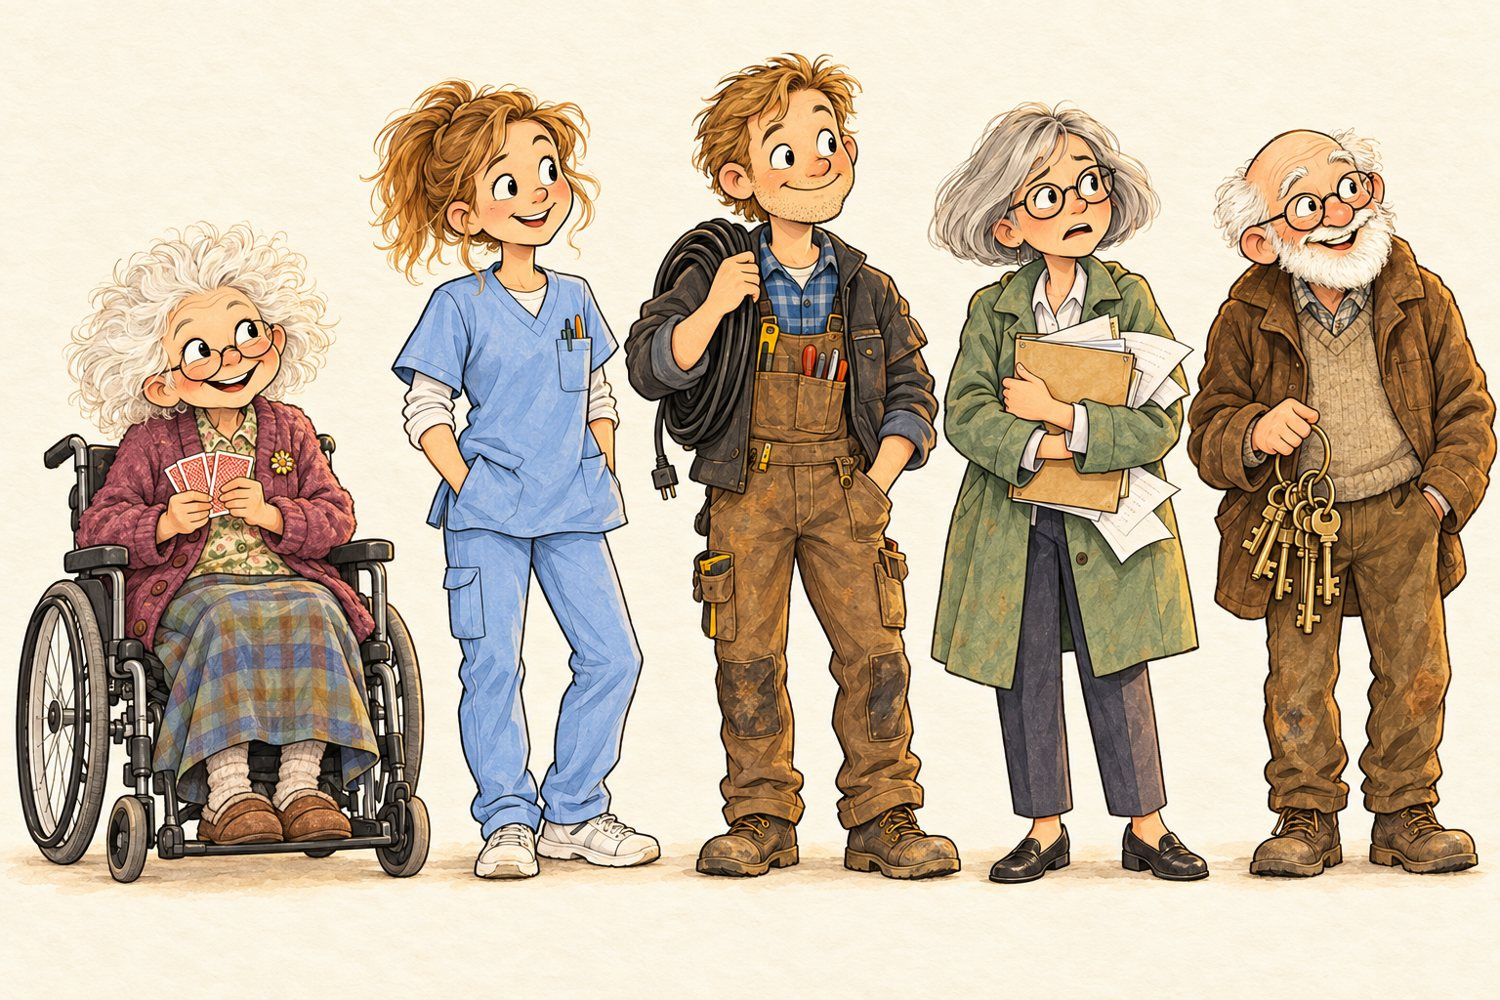
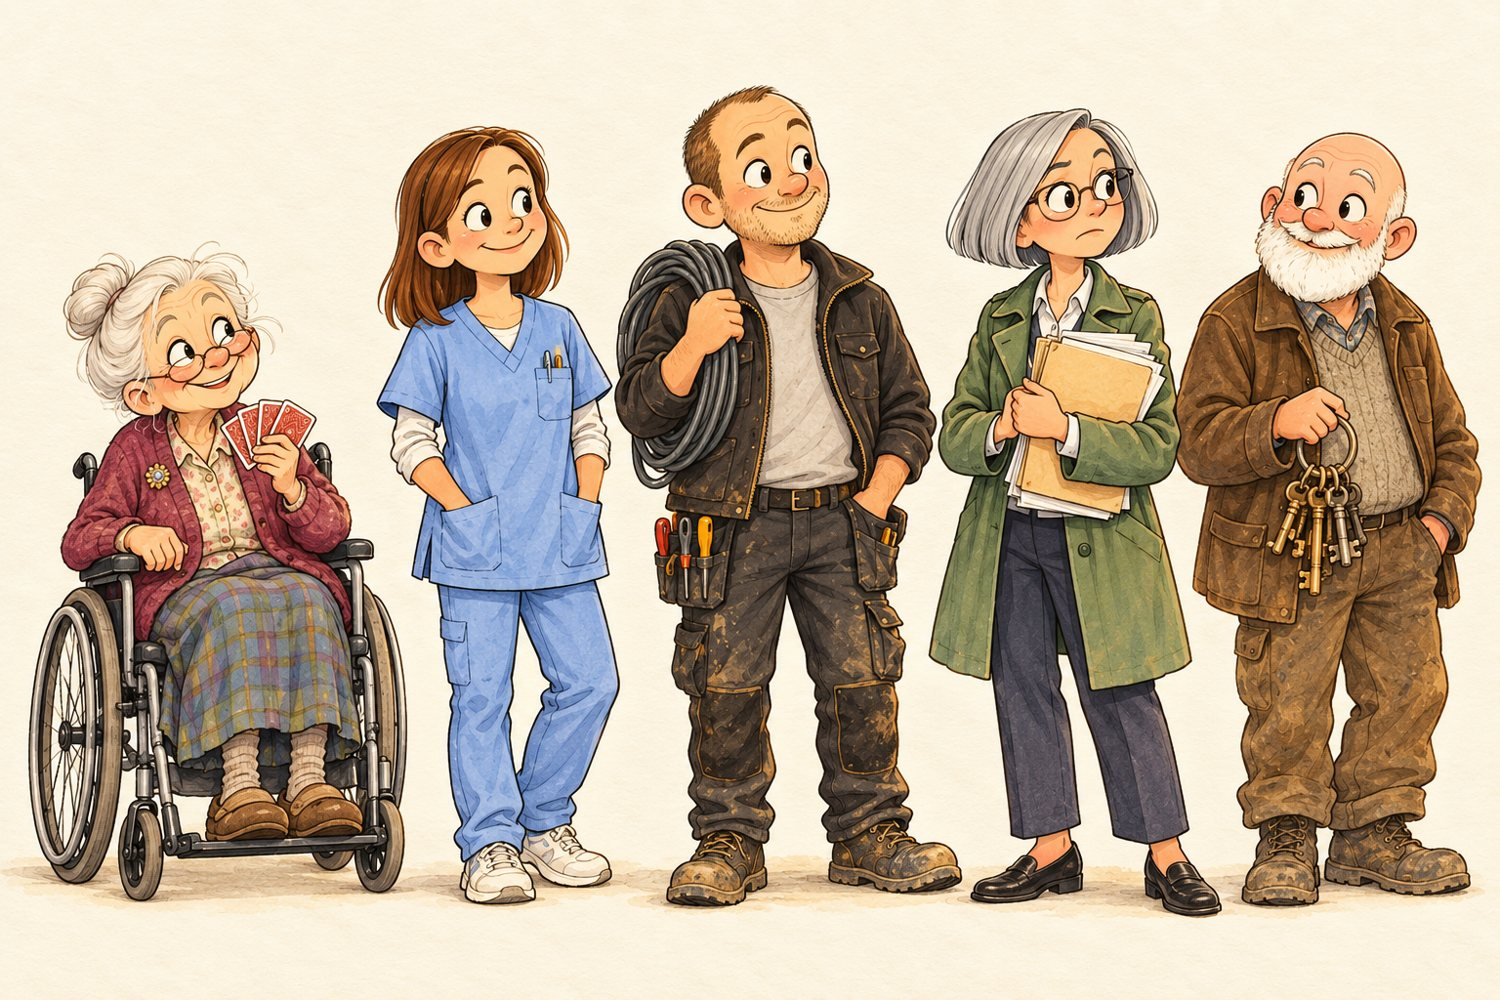
Olika frisyrer för Ben-, Maya- och Alex-karaktärerna

diff --git a/characters/index.html b/characters/index.html
@@ -29,9 +29,9 @@
 <section><div class="wrap">
 <div class="eyebrow">Internt, för granskning</div>
 <h1>Alla karaktärer</h1>
-<div class="note"><b>Så granskar du:</b> tryck på en bild för full storlek. Skriv vad du vill ändra per karaktär (namn + ändring), så gör jag om just dem. Alla karaktärer i Penny-världen, även Penny, är nya (v2) i samma stil som omslagen. Fäll ut "Visa gamla designen" för att se skillnaden. Ben, Maya och Alex är nu också v2 i samma sagobokstil, med de gamla arken utfällbara under varje serie.</div>
+<div class="note"><b>Så granskar du:</b> tryck på en bild för full storlek. Skriv vad du vill ändra per karaktär (namn + ändring), så gör jag om just dem. Alla karaktärer i Penny-världen, även Penny, är nya (v2) i samma stil som omslagen. Fäll ut "Visa gamla designen" för att se skillnaden. Ben, Maya och Alex är nu också v2 i samma sagobokstil, med de gamla arken utfällbara under varje serie. Uppdaterat: alla har nu egna frisyrer.</div>
 <h2>Penny and the Golden Notebook (7–10) och Penny and the Seed (3–6)</h2>
 <div class="grid-ch">
 <article class="ch"><a href="img/penny.jpg?v=2" target="_blank"><img src="img/penny.jpg?v=2" alt="Penny Lind, 9" loading="lazy"></a><div class="meta"><span class="tag">Ny v2</span><h3>Penny Lind, 9</h3><p>Huvudpersonen. Samma design som förut (blond page, orange hårband, orange t-shirt, ryggsäck, röda skor) men nu i omslagets akvarellstil, med den gula regnjackan från omslaget.</p><details><summary>Visa gamla designen</summary><img src="img/penny-old.jpg" alt="Gamla Penny" loading="lazy"></details><details><summary>Visa gamla uttrycksarket</summary><img src="img/penny-expr.jpg" alt="Pennys gamla uttryck" loading="lazy"></details></div></article><article class="ch"><a href="img/tommy.jpg" target="_blank"><img src="img/tommy.jpg" alt="Tommy Lind, 6" loading="lazy"></a><div class="meta"><span class="tag">Ny v2</span><h3>Tommy Lind, 6</h3><p>Lillebror. Rött rufsigt hår, blå keps, fräknar, glugg. Frågar "varför?" om allt. Omgjord en gång: v1 fick glasögon.</p><details><summary>Visa gamla designen</summary><img src="img/tommy-old.jpg" alt="Gamla Tommy Lind, 6" loading="lazy"></details></div></article><article class="ch"><a href="img/emma.jpg" target="_blank"><img src="img/emma.jpg" alt="Emma Holm, 9" loading="lazy"></a><div class="meta"><span class="tag">Ny v2</span><h3>Emma Holm, 9</h3><p>Bästa vännen. Långt kopparrött hår, runda glasögon, gul stickad tröja, anteckningsblock. Den noggranna som räknar.</p><details><summary>Visa gamla designen</summary><img src="img/emma-old.jpg" alt="Gamla Emma Holm, 9" loading="lazy"></details></div></article><article class="ch"><a href="img/grandma.jpg" target="_blank"><img src="img/grandma.jpg" alt="Mormor Rose" loading="lazy"></a><div class="meta"><span class="tag">Ny v2</span><h3>Mormor Rose</h3><p>Silvergrå knut, runda glasögon, förkläde med mjöl. Ger aldrig svar, bara frågor: "Och vad tror du själv?"</p><details><summary>Visa gamla designen</summary><img src="img/grandma-old.jpg" alt="Gamla Mormor Rose" loading="lazy"></details></div></article><article class="ch"><a href="img/dad.jpg" target="_blank"><img src="img/dad.jpg" alt="Pappa Johan" loading="lazy"></a><div class="meta"><span class="tag">Ny v2</span><h3>Pappa Johan</h3><p>Snickare med egen firma. Stor, lugn, skägg, sågspån i håret, verktygsbälte. Omgjord: v1 hade glasögon.</p><details><summary>Visa gamla designen</summary><img src="img/dad-old.jpg" alt="Gamla Pappa Johan" loading="lazy"></details></div></article><article class="ch"><a href="img/mom.jpg" target="_blank"><img src="img/mom.jpg" alt="Mamma Sara" loading="lazy"></a><div class="meta"><span class="tag">Ny v2</span><h3>Mamma Sara</h3><p>Sjuksköterska som jobbar natt. Blond hästsvans, varm men trött, skrattar högt.</p><details><summary>Visa gamla designen</summary><img src="img/mom-old.jpg" alt="Gamla Mamma Sara" loading="lazy"></details></div></article><article class="ch"><a href="img/marcus.jpg" target="_blank"><img src="img/marcus.jpg" alt="Marcus Berg, 10" loading="lazy"></a><div class="meta"><span class="tag">Ny v2</span><h3>Marcus Berg, 10</h3><p>Rivalen. Ny jacka, ny cykel, självsäker. Blir långsamt en vän. <b>OBS: skorna har en Nike-logga som måste bort.</b></p><details><summary>Visa gamla designen</summary><img src="img/marcus-old.jpg" alt="Gamla Marcus Berg, 10" loading="lazy"></details></div></article><article class="ch"><a href="img/mrgreen.jpg" target="_blank"><img src="img/mrgreen.jpg" alt="Mr. Green (Åke Grön)" loading="lazy"></a><div class="meta"><span class="tag">Ny v2</span><h3>Mr. Green (Åke Grön)</h3><p>Gammal granne med stort äppelträd och dålig rygg. Kort i tonen, mjuk inuti.</p><details><summary>Visa gamla designen</summary><img src="img/mrgreen-old.jpg" alt="Gamla Mr. Green (Åke Grön)" loading="lazy"></details></div></article><article class="ch"><a href="img/mrslee.jpg" target="_blank"><img src="img/mrslee.jpg" alt="Mrs. Lee + Cinnamon" loading="lazy"></a><div class="meta"><span class="tag">Ny v2</span><h3>Mrs. Lee + Cinnamon</h3><p>Jobbar långa dagar på apoteket. Golden retrievern Cinnamon rymmer jämt.</p><details><summary>Visa gamla designen</summary><img src="img/mrslee-old.jpg" alt="Gamla Mrs. Lee + Cinnamon" loading="lazy"></details></div></article>
 </div>
-<h2 style="margin-top:40px">Ben och Uppfinnarens karta (7–10)</h2><div class="grid-ch"><article class="ch"><a href="img/ben-hero.jpg" target="_blank"><img src="img/ben-hero.jpg" alt="Ben Ek, 10" loading="lazy"></a><div class="meta"><span class="tag">Ny v2</span><h3>Ben Ek, 10</h3><p>Uppfinnaren. Spretigt mörkblont hår, blyertspenna bakom örat, Edvins för stora läderförkläde, kartan och skruvmejseln.</p></div></article><article class="ch"><a href="img/ben-kids.jpg" target="_blank"><img src="img/ben-kids.jpg" alt="De unga" loading="lazy"></a><div class="meta"><span class="tag">Ny v2</span><h3>De unga</h3><p>Från vänster: Ben, lillasyster Ella (7, flätor, gul regnjacka, ficklampa), Omar (10, ritar bättre än alla), Liv (11, sportstjärnan och rivalen).</p></div></article><article class="ch"><a href="img/ben-adults.jpg" target="_blank"><img src="img/ben-adults.jpg" alt="De vuxna" loading="lazy"></a><div class="meta"><span class="tag">Ny v2</span><h3>De vuxna</h3><p>Från vänster: Signe Holm (82, Solgården, fuskar i kort), mamma Karin (undersköterska), pappa Mats (elektriker), kommunrådet Berit Stål, en gammal man med Edvins nycklar.</p></div></article></div><details style="margin-bottom:10px"><summary>Visa gamla karaktärsarket för Ben och Uppfinnarens karta</summary><img src="img/ben-cast.jpg" alt="Gamla arket" loading="lazy" style="margin-top:10px;border-radius:10px"></details><h2 style="margin-top:40px">Maya och Tornets utmaning (11–14)</h2><div class="grid-ch"><article class="ch"><a href="img/maya-hero.jpg" target="_blank"><img src="img/maya-hero.jpg" alt="Maya Falk, 13" loading="lazy"></a><div class="meta"><span class="tag">Ny v2</span><h3>Maya Falk, 13</h3><p>Snabb i huvudet och munnen. Lockigt mörkt hår i slarvig knut med blyertspenna, grön parkas, anteckningsblocket och den gamla nyckeln. Vattentornet i bakgrunden.</p></div></article><article class="ch"><a href="img/maya-kids.jpg" target="_blank"><img src="img/maya-kids.jpg" alt="De unga" loading="lazy"></a><div class="meta"><span class="tag">Ny v2</span><h3>De unga</h3><p>Från vänster: Maya, Adam Karimi (14, rivalen), Sofia Holm (13, konstnärlig och blyg), Leo Strand (12, den roliga), lillebror Ivar (8).</p></div></article><article class="ch"><a href="img/maya-adults.jpg" target="_blank"><img src="img/maya-adults.jpg" alt="De vuxna och Rådet" loading="lazy"></a><div class="meta"><span class="tag">Ny v2</span><h3>De vuxna och Rådet</h3><p>Från vänster: mamma Linda (kaféet), mormor Gun (gungstolen), och Rådet i vattentornet.</p></div></article></div><details style="margin-bottom:10px"><summary>Visa gamla karaktärsarket för Maya och Tornets utmaning</summary><img src="img/maya-cast.jpg" alt="Gamla arket" loading="lazy" style="margin-top:10px;border-radius:10px"></details><h2 style="margin-top:40px">The Condition / Villkoret (15–18)</h2><div class="grid-ch"><article class="ch"><a href="img/alex-hero.jpg" target="_blank"><img src="img/alex-hero.jpg" alt="Alex Moberg, 17" loading="lazy"></a><div class="meta"><span class="tag">Ny v2</span><h3>Alex Moberg, 17</h3><p>Lång och gänglig, rufsigt mörkt hår, hörlurar runt halsen, kuvertet med vaxsigill på bryggan. Lite äldre tonårsproportioner men samma stil.</p></div></article><article class="ch"><a href="img/alex-kids.jpg" target="_blank"><img src="img/alex-kids.jpg" alt="De unga" loading="lazy"></a><div class="meta"><span class="tag">Ny v2</span><h3>De unga</h3><p>Från vänster: Alex, Nils Åberg (krypto och snabba pengar), Sara Haddad (vill bli läkare, jobbar i varvets kafé), lillasyster Wilma (12).</p></div></article><article class="ch"><a href="img/alex-adults.jpg" target="_blank"><img src="img/alex-adults.jpg" alt="De vuxna" loading="lazy"></a><div class="meta"><span class="tag">Ny v2</span><h3>De vuxna</h3><p>Från vänster: Edith Lagerlund (78, förvaltaren, damcykeln), pappa Tomas (svetsare), mamma Helena (sjuksköterska), Rami Saleh (arbetsledare på varvet), Kenneth Ström (båtmotormekaniker).</p></div></article></div><details style="margin-bottom:10px"><summary>Visa gamla karaktärsarket för The Condition / Villkoret</summary><img src="img/alex-cast.jpg" alt="Gamla arket" loading="lazy" style="margin-top:10px;border-radius:10px"></details></div></section></body></html>
+<h2 style="margin-top:40px">Ben och Uppfinnarens karta (7–10)</h2><div class="grid-ch"><article class="ch"><a href="img/ben-hero.jpg?v=3" target="_blank"><img src="img/ben-hero.jpg?v=3" alt="Ben Ek, 10" loading="lazy"></a><div class="meta"><span class="tag">Ny v2</span><h3>Ben Ek, 10</h3><p>Uppfinnaren. Spretigt mörkblont hår, blyertspenna bakom örat, Edvins för stora läderförkläde, kartan och skruvmejseln.</p></div></article><article class="ch"><a href="img/ben-kids.jpg?v=3" target="_blank"><img src="img/ben-kids.jpg?v=3" alt="De unga" loading="lazy"></a><div class="meta"><span class="tag">Ny v2</span><h3>De unga</h3><p>Från vänster: Ben, lillasyster Ella (7, flätor, gul regnjacka, ficklampa), Omar (10, ritar bättre än alla), Liv (11, sportstjärnan och rivalen).</p></div></article><article class="ch"><a href="img/ben-adults.jpg?v=3" target="_blank"><img src="img/ben-adults.jpg?v=3" alt="De vuxna" loading="lazy"></a><div class="meta"><span class="tag">Ny v2</span><h3>De vuxna</h3><p>Från vänster: Signe Holm (82, Solgården, fuskar i kort), mamma Karin (undersköterska), pappa Mats (elektriker), kommunrådet Berit Stål, en gammal man med Edvins nycklar.</p></div></article></div><details style="margin-bottom:10px"><summary>Visa gamla karaktärsarket för Ben och Uppfinnarens karta</summary><img src="img/ben-cast.jpg" alt="Gamla arket" loading="lazy" style="margin-top:10px;border-radius:10px"></details><h2 style="margin-top:40px">Maya och Tornets utmaning (11–14)</h2><div class="grid-ch"><article class="ch"><a href="img/maya-hero.jpg" target="_blank"><img src="img/maya-hero.jpg" alt="Maya Falk, 13" loading="lazy"></a><div class="meta"><span class="tag">Ny v2</span><h3>Maya Falk, 13</h3><p>Snabb i huvudet och munnen. Lockigt mörkt hår i slarvig knut med blyertspenna, grön parkas, anteckningsblocket och den gamla nyckeln. Vattentornet i bakgrunden.</p></div></article><article class="ch"><a href="img/maya-kids.jpg?v=3" target="_blank"><img src="img/maya-kids.jpg?v=3" alt="De unga" loading="lazy"></a><div class="meta"><span class="tag">Ny v2</span><h3>De unga</h3><p>Från vänster: Maya, Adam Karimi (14, rivalen), Sofia Holm (13, konstnärlig och blyg), Leo Strand (12, den roliga), lillebror Ivar (8).</p></div></article><article class="ch"><a href="img/maya-adults.jpg?v=3" target="_blank"><img src="img/maya-adults.jpg?v=3" alt="De vuxna och Rådet" loading="lazy"></a><div class="meta"><span class="tag">Ny v2</span><h3>De vuxna och Rådet</h3><p>Från vänster: mamma Linda (kaféet), mormor Gun (gungstolen), och Rådet i vattentornet.</p></div></article></div><details style="margin-bottom:10px"><summary>Visa gamla karaktärsarket för Maya och Tornets utmaning</summary><img src="img/maya-cast.jpg" alt="Gamla arket" loading="lazy" style="margin-top:10px;border-radius:10px"></details><h2 style="margin-top:40px">The Condition / Villkoret (15–18)</h2><div class="grid-ch"><article class="ch"><a href="img/alex-hero.jpg" target="_blank"><img src="img/alex-hero.jpg" alt="Alex Moberg, 17" loading="lazy"></a><div class="meta"><span class="tag">Ny v2</span><h3>Alex Moberg, 17</h3><p>Lång och gänglig, rufsigt mörkt hår, hörlurar runt halsen, kuvertet med vaxsigill på bryggan. Lite äldre tonårsproportioner men samma stil.</p></div></article><article class="ch"><a href="img/alex-kids.jpg?v=3" target="_blank"><img src="img/alex-kids.jpg?v=3" alt="De unga" loading="lazy"></a><div class="meta"><span class="tag">Ny v2</span><h3>De unga</h3><p>Från vänster: Alex, Nils Åberg (krypto och snabba pengar), Sara Haddad (vill bli läkare, jobbar i varvets kafé), lillasyster Wilma (12).</p></div></article><article class="ch"><a href="img/alex-adults.jpg?v=3" target="_blank"><img src="img/alex-adults.jpg?v=3" alt="De vuxna" loading="lazy"></a><div class="meta"><span class="tag">Ny v2</span><h3>De vuxna</h3><p>Från vänster: Edith Lagerlund (78, förvaltaren, damcykeln), pappa Tomas (svetsare), mamma Helena (sjuksköterska), Rami Saleh (arbetsledare på varvet), Kenneth Ström (båtmotormekaniker).</p></div></article></div><details style="margin-bottom:10px"><summary>Visa gamla karaktärsarket för The Condition / Villkoret</summary><img src="img/alex-cast.jpg" alt="Gamla arket" loading="lazy" style="margin-top:10px;border-radius:10px"></details></div></section></body></html>
